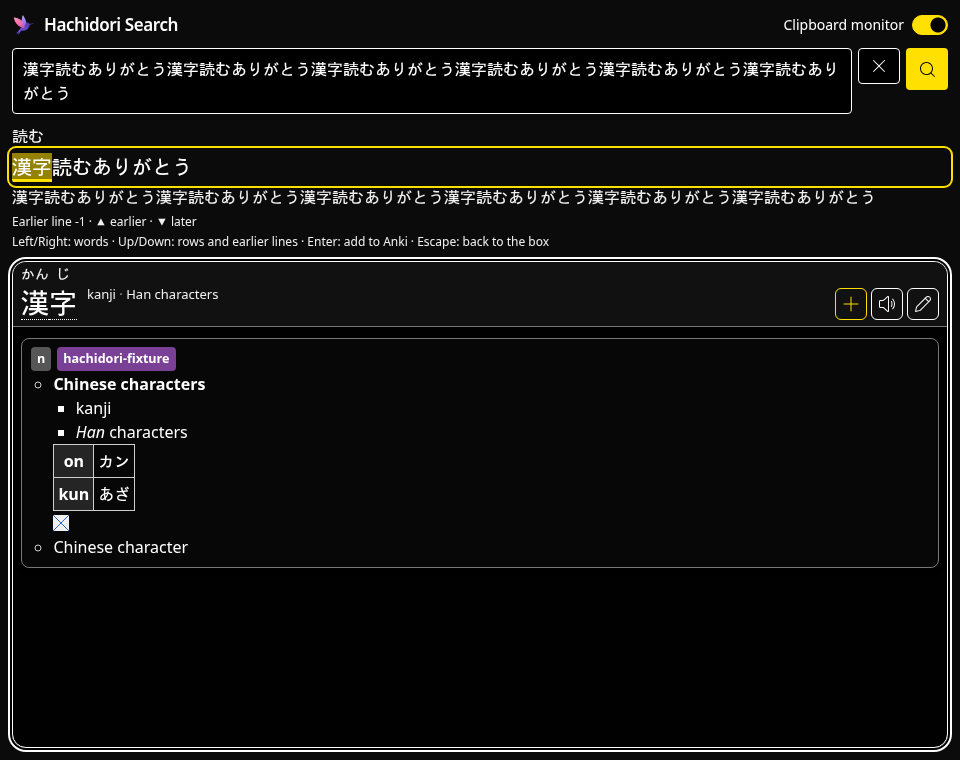
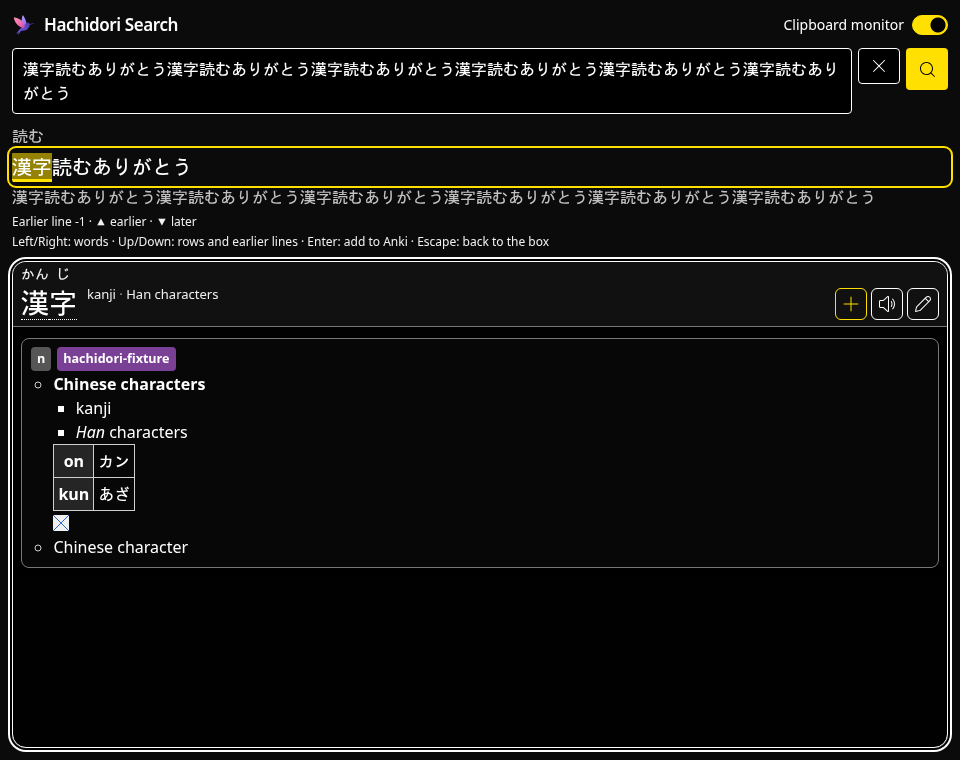
Search history media: screenshots at 626cd4e9, with the neighbour rows dimmed per palette and smaller

Changed region(s): [[0.0, 0.2421, 0.9062, 0.2724]]

diff --git a/search-history/README.md b/search-history/README.md
@@ -33,15 +33,15 @@ HACHIDORI_CHROME=<chrome 152> node scripts/capture-search-history-gifs.mjs <repo
 ## Screenshots
 
 `HACHIDORI_SEARCH_SCREENSHOTS=DIR node test/chrome-search-history.mjs` on the
-PR at `10d4715a`: an earlier line's visit (the searched text with its cursor,
+PR at `626cd4e9`: an earlier line's visit (the searched text with its cursor,
 the neighbour rows and the keys) in the default, Girlypop (light), Solarized
 Light and High contrast palettes and with forced colours emulated, and
-Settings → Reading → Search page. The neighbour rows are set smaller than the
-searched text in every palette, and in the palette's dim text, which is dimmer
-than its text only in Default, Autumn and High contrast; Girlypop and
-Solarized Light show rows told apart by size alone. The Chrome suite checks
-the rows at 4.5:1 or more, smaller, and dimmer where the palette has a dim
-text, in all 42 palettes.
+Settings → Reading → Search page. The neighbour rows are dimmed (the palette's
+dim text mixed toward the page, as far as each palette keeps 4.5:1) and set
+smaller than the searched text. Solarized Light's text is at 4.65:1, so there
+only the size sets them apart. The Chrome suite checks, in all 42 palettes,
+that the rows keep 4.5:1, are smaller, and are dimmer than the searched text
+wherever it is at 4.7:1 or more.
 
 ## Benchmark
 
